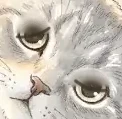
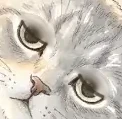
그림첩: 감은 눈꺼풀을 고개 기울기에 맞춰 기울임
Claude-Session: https://claude.ai/code/session_01HhH72LKYhyWgGrEVdddvEZ

diff --git a/sw.js b/sw.js
@@ -1,6 +1,6 @@
 // 톡톡 오프라인 실행 (버전 202611041840)
-const CACHE = 'ttokttok-202611082030n';
-const SHELL = ["./","./index.html","./app-5b0082f1.js?v=4","./app-21865120.css","./theme.css?v=7","./pwa.js?v=2","./back.js?v=2","./push.js?v=1","./mood.js?v=4","./rooms.js?v=16","./account.js?v=1","./anim.js?v=5","./manifest.webmanifest?v=6","./icon-192.png?v=6","./icon-512.png?v=6","./icon-180.png?v=6","./favicon.svg?v=6","./art/m01.webp?v=2","./art/m02.webp?v=2","./art/m03.webp?v=2","./art/m04.webp?v=2","./art/m05.webp?v=2","./art/m06.webp?v=2","./art/m07.webp?v=2","./art/m08.webp?v=2","./art/m09.webp?v=2","./art/m10.webp?v=2","./art/m11-orig.webp?v=2","./art/g01.webp?v=1","./art/g02.webp?v=1","./art/g03.webp?v=1","./art/g04.webp?v=1","./art/g05.webp?v=1","./art/g06.webp?v=1","./art/g07.webp?v=1","./art/g08.webp?v=1","./art/g09.webp?v=1","./art/g10.webp?v=1","./art/g11.webp?v=1","./art/g12.webp?v=1","./privacy.html","./art/m12.webp?v=2"];
+const CACHE = 'ttokttok-202611082040o';
+const SHELL = ["./","./index.html","./app-5b0082f1.js?v=4","./app-21865120.css","./theme.css?v=7","./pwa.js?v=2","./back.js?v=2","./push.js?v=1","./mood.js?v=4","./rooms.js?v=16","./account.js?v=1","./anim.js?v=6","./manifest.webmanifest?v=6","./icon-192.png?v=6","./icon-512.png?v=6","./icon-180.png?v=6","./favicon.svg?v=6","./art/m01.webp?v=2","./art/m02.webp?v=2","./art/m03.webp?v=2","./art/m04.webp?v=2","./art/m05.webp?v=2","./art/m06.webp?v=2","./art/m07.webp?v=2","./art/m08.webp?v=2","./art/m09.webp?v=2","./art/m10.webp?v=2","./art/m11-orig.webp?v=2","./art/g01.webp?v=1","./art/g02.webp?v=1","./art/g03.webp?v=1","./art/g04.webp?v=1","./art/g05.webp?v=1","./art/g06.webp?v=1","./art/g07.webp?v=1","./art/g08.webp?v=1","./art/g09.webp?v=1","./art/g10.webp?v=1","./art/g11.webp?v=1","./art/g12.webp?v=1","./privacy.html","./art/m12.webp?v=2"];
 self.addEventListener('install', e => { e.waitUntil(caches.open(CACHE).then(c => c.addAll(SHELL.map(u => new Request(u, { cache: 'reload' })))).then(() => self.skipWaiting())); });
 self.addEventListener('activate', e => { e.waitUntil(caches.keys().then(ks => Promise.all(ks.filter(k => k !== CACHE).map(k => caches.delete(k)))).then(() => self.clients.claim())); });
 self.addEventListener('fetch', e => {

diff --git a/anim.js b/anim.js
@@ -49,7 +49,7 @@
         w.style.transformOrigin = ((ox - e[0]) / e[2] * 100) + '% ' + ((oy - e[1]) / e[3] * 100) + '%';
       }
       var p = './art/blink/g' + (n < 10 ? '0' : '') + n, half = new Image(), closed = new Image();
-      half.src = p + '-half.webp?v=1'; closed.src = p + '-closed.webp?v=1'; half.alt = closed.alt = '';
+      half.src = p + '-half.webp?v=2'; closed.src = p + '-closed.webp?v=2'; half.alt = closed.alt = '';
       w.appendChild(half); w.appendChild(closed); box.appendChild(w);
       blinkLoop(box, half, closed);
     }

diff --git a/index.html b/index.html
@@ -21,7 +21,7 @@
 <script src="./mood.js?v=4" defer></script>
 <script src="./rooms.js?v=16" defer></script>
 <script src="./account.js?v=1" defer></script>
-<script src="./anim.js?v=5" defer></script>
+<script src="./anim.js?v=6" defer></script>
 <style>
 .pic-btn{display:block;width:100%;border:0;padding:0;margin-top:10px;cursor:pointer;touch-action:manipulation;-webkit-tap-highlight-color:transparent;box-shadow:0 10px 26px rgba(20,40,75,.16);font:inherit}
 .board-in{position:absolute;inset:0}
